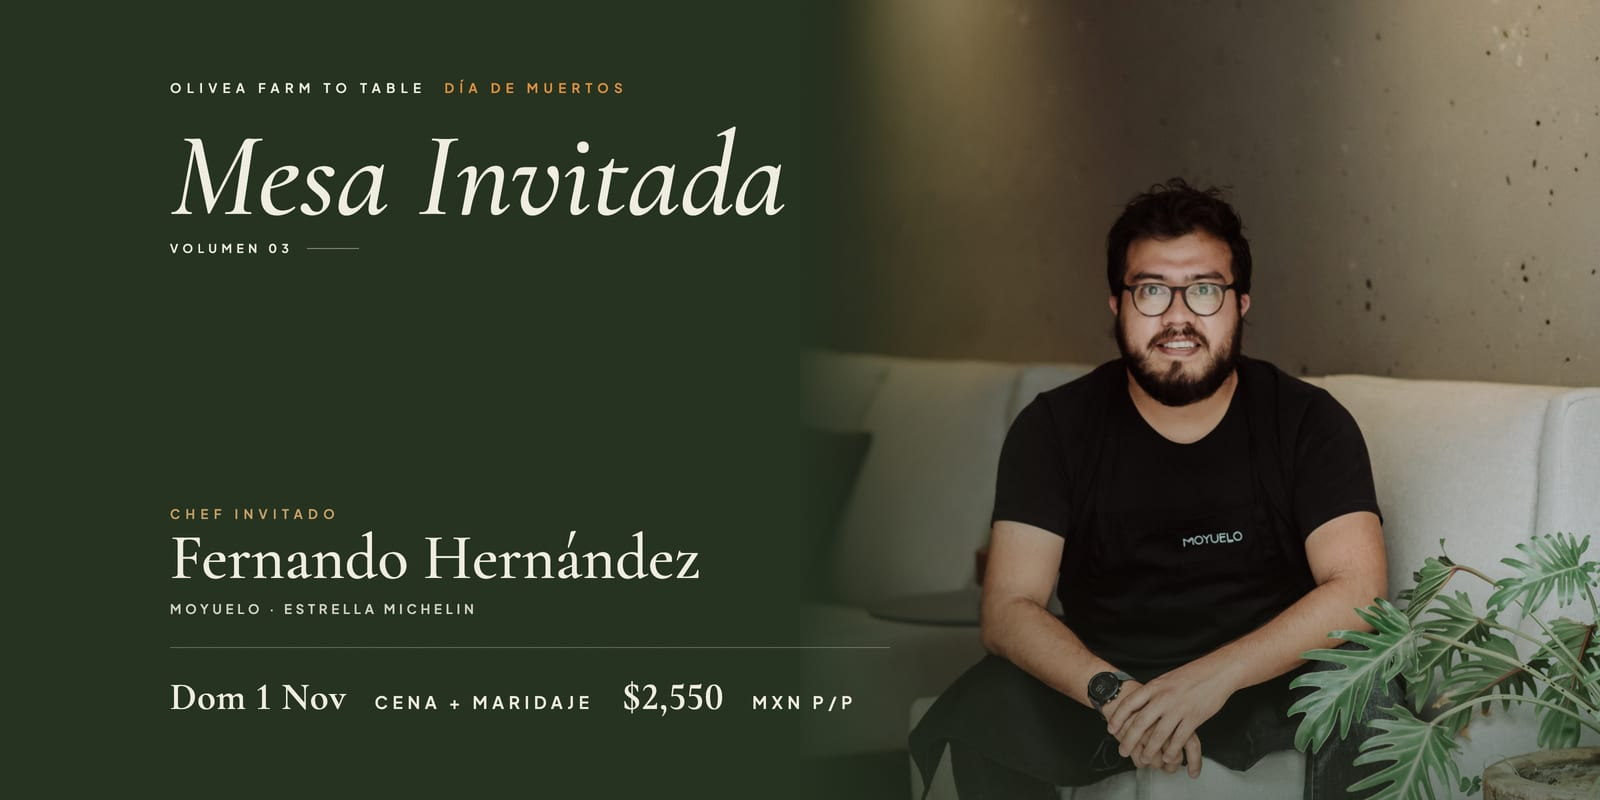
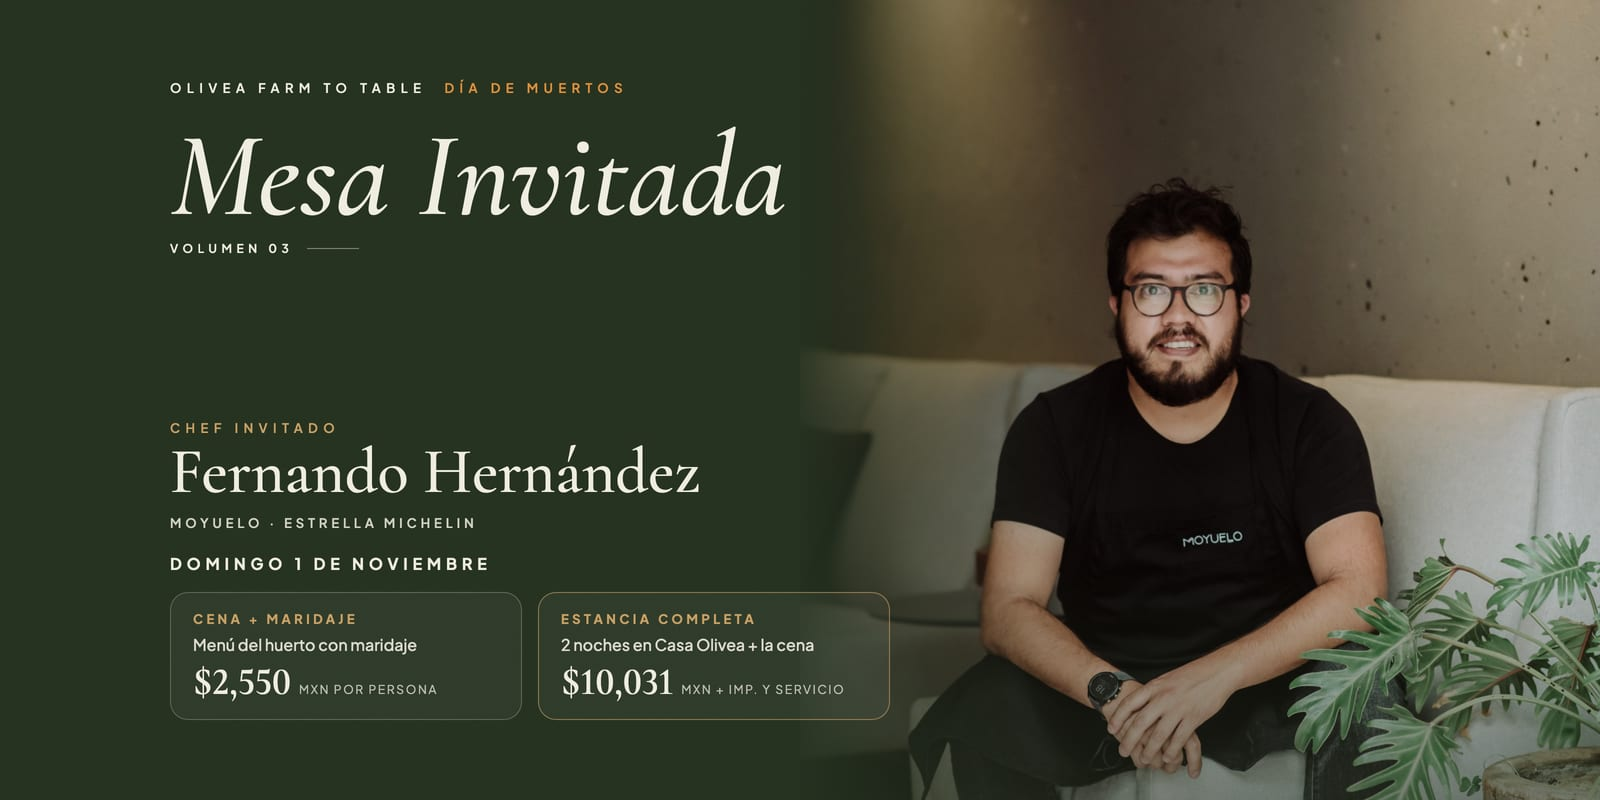
Mesa Invitada: share card and description carry the full deal
The link preview only showed the dinner. The 1200x630 share card and the
popup cover now show both offers — the dinner with pairing and the full
stay (2 nights at Casa Olivea + the dinner) — and the page title,
description and event offers mention the stay. The share image moves to a
new filename so WhatsApp and Facebook fetch it fresh instead of reusing the
cached one.

Changed region(s): [[0.0938, 0.5312, 0.5312, 0.9062]]

diff --git a/app/[lang]/(main)/mesa-invitada/page.tsx b/app/[lang]/(main)/mesa-invitada/page.tsx
@@ -22,7 +22,7 @@ type Params = { params: Promise<{ lang: string }> };
 const EVENT = {
   date: "2026-11-01",
   poster: "/images/events/mesa-invitada-03/poster.jpg",
-  share: "/images/seo/mesa-invitada-share.jpg",
+  share: "/images/seo/mesa-invitada-03-share.jpg",
   openTable:
     "https://www.opentable.com.mx/booking/experiences-availability?rid=1313743&restref=1313743&experienceId=818362&utm_source=olivea&utm_medium=website&utm_campaign=mesa-invitada-03",
   // Casa Olivea reception.
@@ -33,9 +33,9 @@ const EVENT = {
 
 const COPY = {
   es: {
-    metaTitle: "Mesa Invitada Vol. 03 · Chef Fernando Hernández · Olivea Farm To Table",
+    metaTitle: "Mesa Invitada Vol. 03 · Chef Fernando Hernández · Cena y estancia en Olivea",
     metaDescription:
-      "Domingo 1 de noviembre: cena de Día de Muertos con el chef invitado Fernando Hernández (Moyuelo) en Olivea Farm To Table. Menú del huerto con maridaje, $2,550 MXN por persona.",
+      "Domingo 1 de noviembre, cena de Día de Muertos con el chef Fernando Hernández (Moyuelo): $2,550 MXN por persona con maridaje. O la estancia completa: 2 noches en Casa Olivea + la cena por $10,031 MXN + impuestos y servicio.",
     kicker: "Mesa Invitada · Volumen 03",
     occasion: "Día de Muertos",
     title: "Una cena en celebración del Día de Muertos",
@@ -69,9 +69,9 @@ const COPY = {
       "Cartel de Mesa Invitada Volumen 03: el chef Fernando Hernández, de Moyuelo, sentado en un sillón; cena de Día de Muertos el domingo 1 de noviembre en Olivea Farm To Table.",
   },
   en: {
-    metaTitle: "Mesa Invitada Vol. 03 · Chef Fernando Hernández · Olivea Farm To Table",
+    metaTitle: "Mesa Invitada Vol. 03 · Chef Fernando Hernández · Dinner and stay at Olivea",
     metaDescription:
-      "Sunday, November 1: a Día de Muertos dinner with guest chef Fernando Hernández (Moyuelo) at Olivea Farm To Table. A garden menu with pairing, $2,550 MXN per person.",
+      "Sunday, November 1, a Día de Muertos dinner with chef Fernando Hernández (Moyuelo): $2,550 MXN per person with pairing. Or the full stay: 2 nights at Casa Olivea + the dinner for $10,031 MXN + tax and service.",
     kicker: "Mesa Invitada · Volume 03",
     occasion: "Día de Muertos",
     title: "A dinner in celebration of Día de Muertos",
@@ -161,6 +161,14 @@ export default async function MesaInvitadaPage({ params }: Params) {
         priceCurrency: "MXN",
         availability: "https://schema.org/LimitedAvailability",
         url: EVENT.openTable,
+      },
+      {
+        "@type": "Offer",
+        name: c.stayTitle,
+        price: EVENT.stayPrice,
+        priceCurrency: "MXN",
+        availability: "https://schema.org/LimitedAvailability",
+        url: pageUrl,
       },
     ],
   };
